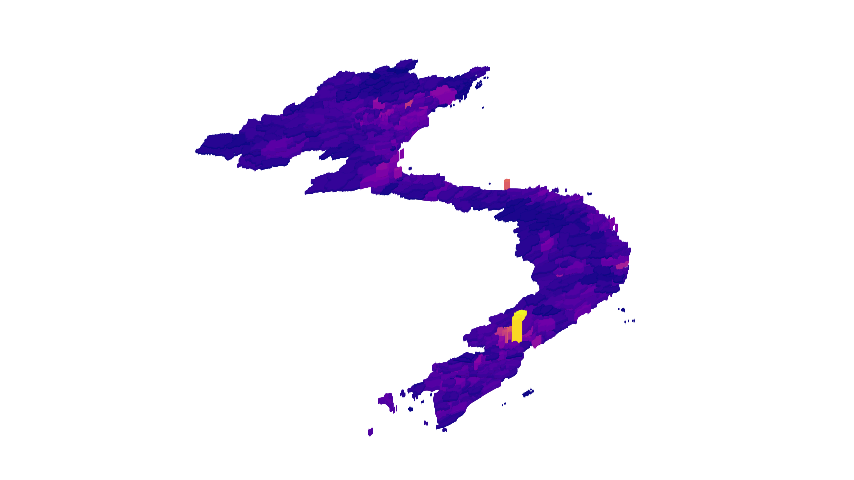
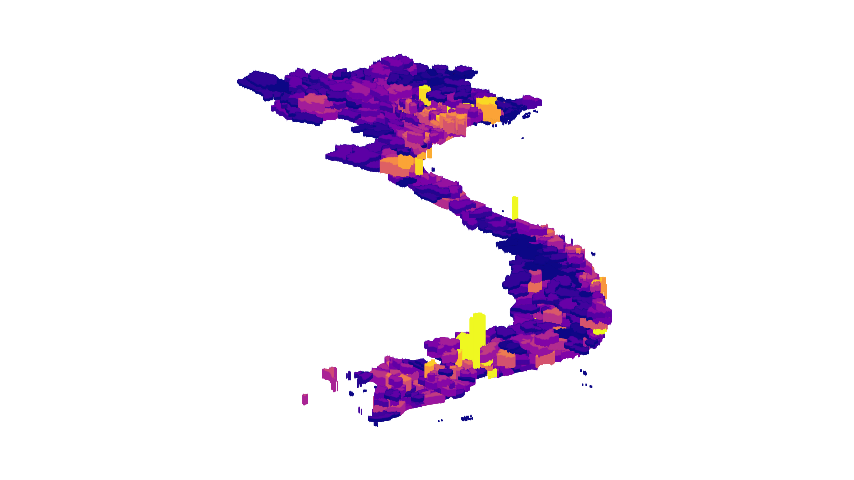
rudimentary3D

Changed region(s): [[0.2131, 0.0938, 0.7611, 0.9062], [0.6089, 0.8125, 0.6393, 0.8438], [0.3349, 0.8125, 0.3653, 0.8438]]

diff --git a/manim_map.py b/manim_map.py
@@ -19,12 +19,12 @@ regions_df['geometry'] = regions_df['geometry'].apply(lambda x: wkt.loads(x))
 # Convert DataFrame to GeoDataFrame
 regions_gdf = gpd.GeoDataFrame(regions_df, geometry='geometry')
 regions_gdf['coords'] = regions_gdf['coords'].apply(ast.literal_eval)
-len_df = len(regions_df)
 #regions_gdf['geometry'] = regions_gdf['geometry'].apply(lambda geom: geom.convex_hull if geom.geom_type == 'MultiPolygon' else geom) #envelope(geom)
 
 #select_area
 #select_regions = ["HA NOI", "BAC NINH", "THAI NGUYEN", "HUNG YEN"]
 #regions_gdf = regions_gdf[regions_gdf['region'].isin(select_regions)]
+len_df = len(regions_gdf)
 #print(regions_gdf)
 
 #get_boundaries
@@ -41,7 +41,7 @@ buff_y = (max_y-min_y)/2
 query = "population"
 dfac = 2*10**5
 cmap = plt.get_cmap('plasma')
-norm = plt.Normalize(regions_gdf[query].min()/dfac, regions_gdf[query].max()/dfac)
+norm = plt.Normalize(regions_gdf[query].quantile(0.05)/dfac, regions_gdf[query].quantile(0.96)/dfac)
 
 # Helper Functions Section
 # ------------------------
@@ -72,7 +72,7 @@ def create_Polyhedron(axes, border_xy, height):
     # Create polygon area
     points = axes.c2p(border_xy)
     top_face = Polygon(*[point + np.array([0, 0, height]) for point in points], fill_opacity=1, color=hex_color, stroke_width=1)
-    bottom_face = Polygon(*points, fill_opacity=0.5, color=hex_color, stroke_width=1)
+    bottom_face = Polygon(*points, fill_opacity=1, color=hex_color, stroke_width=1)
     top_center = top_face.get_center()
 
     return line, top_face, bottom_face, top_center
@@ -101,16 +101,16 @@ def calc_side_faces(polygon, height):
 class Animate_pop(ThreeDScene):
     def construct(self):
         self.camera.background_color = WHITE
-        self.set_camera_orientation(phi=5 * DEGREES, theta=-110 * DEGREES)
+        self.set_camera_orientation(phi=10 * DEGREES, theta=-90 * DEGREES)
         self.camera.set_focal_distance(100000)
         
         # Set up Manim Axis
     
         axes = Axes(
-            x_range=[min_x - buff_x, max_x + buff_x],
-            y_range=[min_y - buff_y, max_y + buff_y],
+            x_range=[min_x, max_x],
+            y_range=[min_y, max_y],
             axis_config={"color": BLUE},
-        )
+        ).scale(.5)
         # Loop through each region in the data
         count = 0
         for idx, row in regions_gdf.iterrows():
